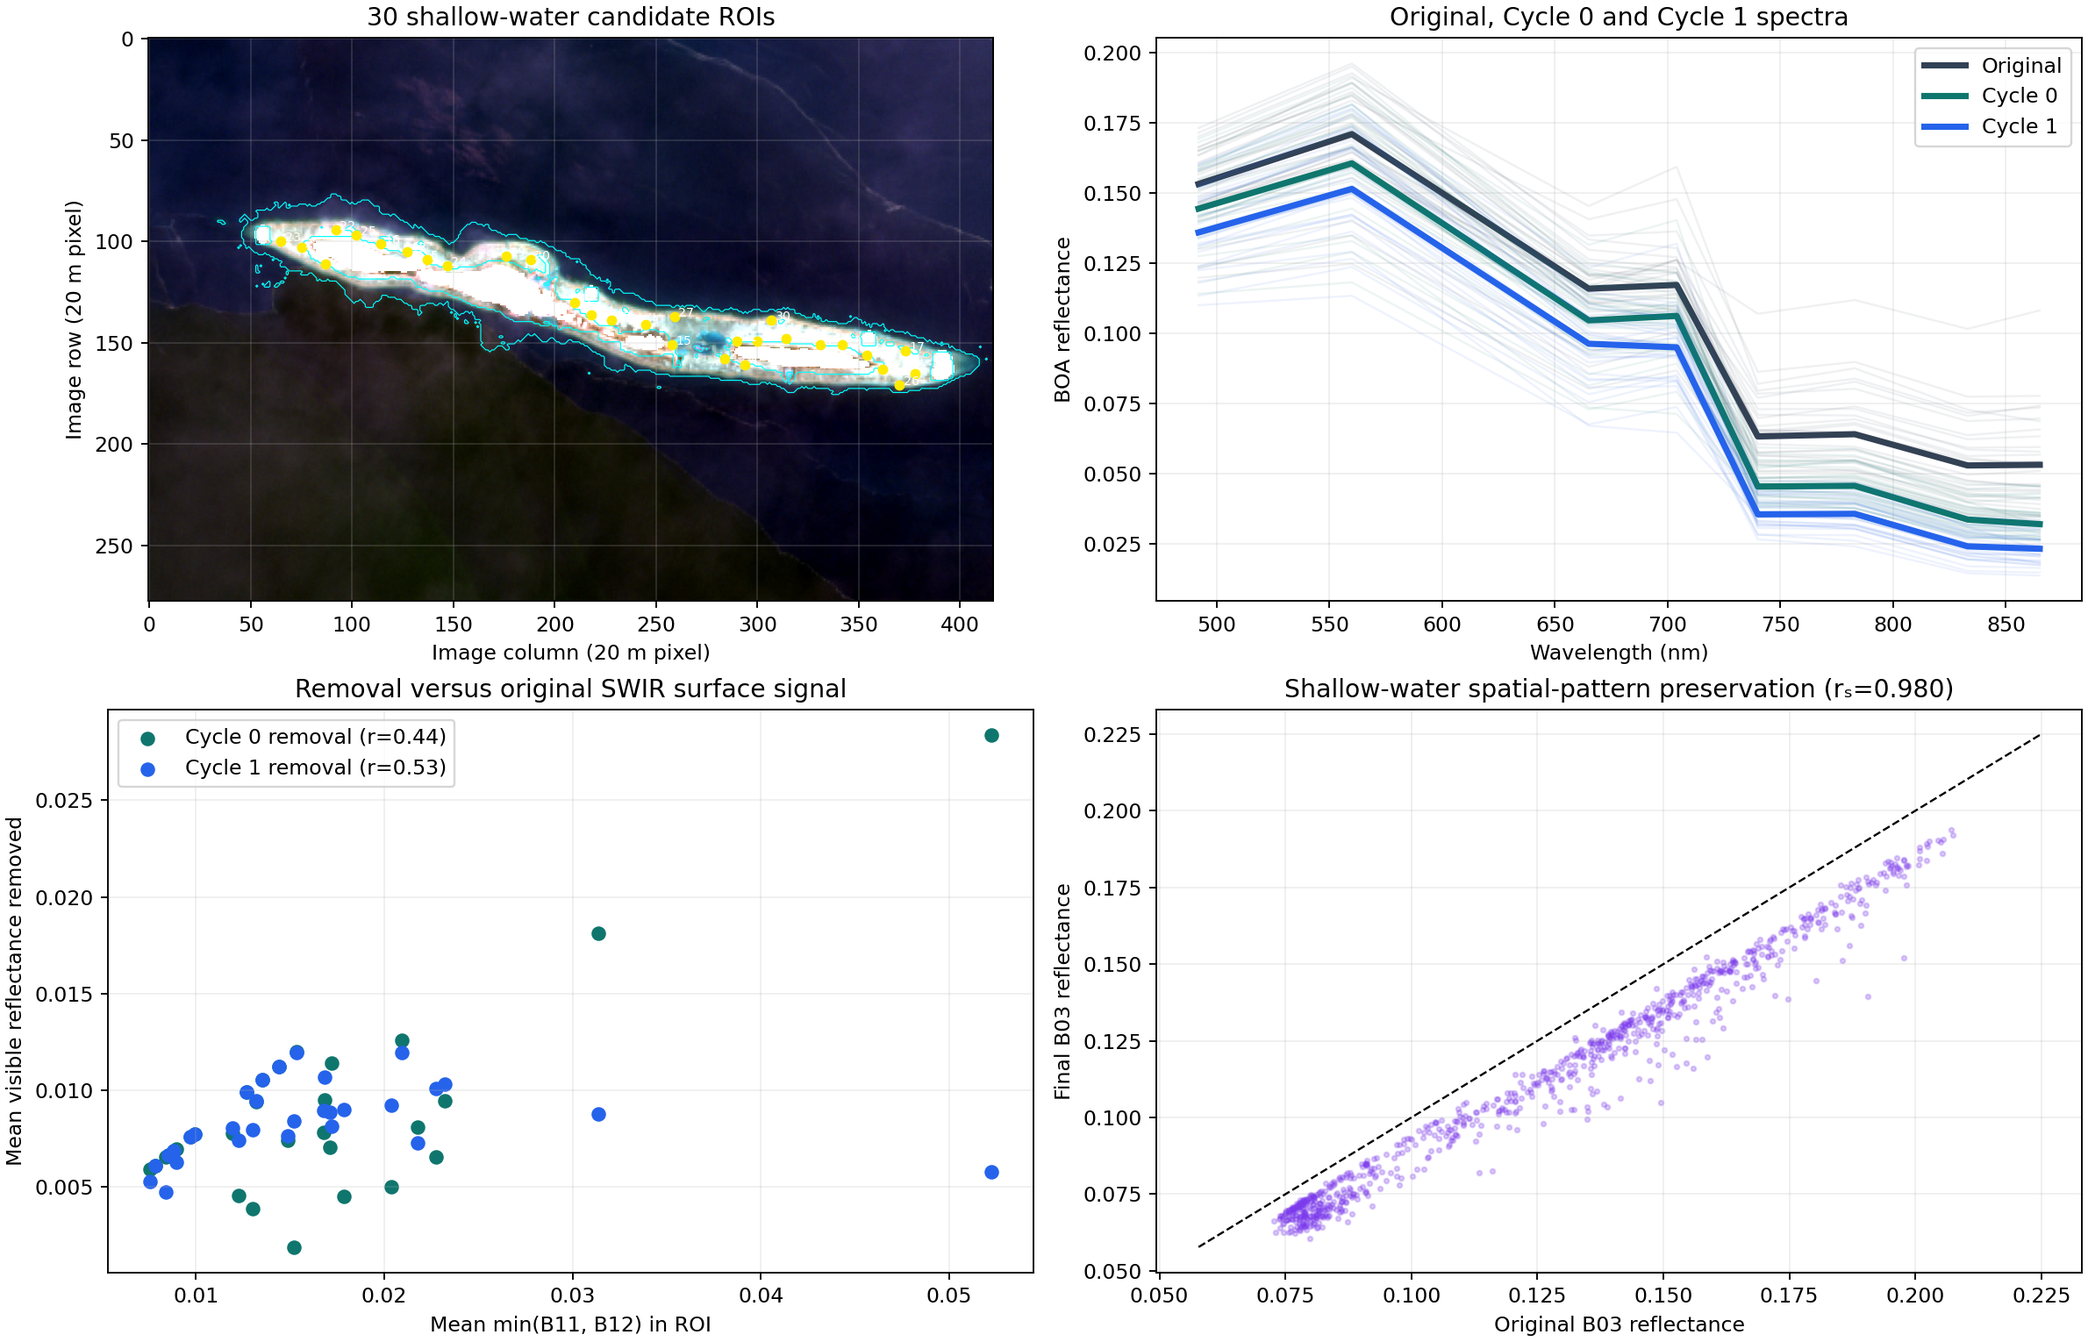
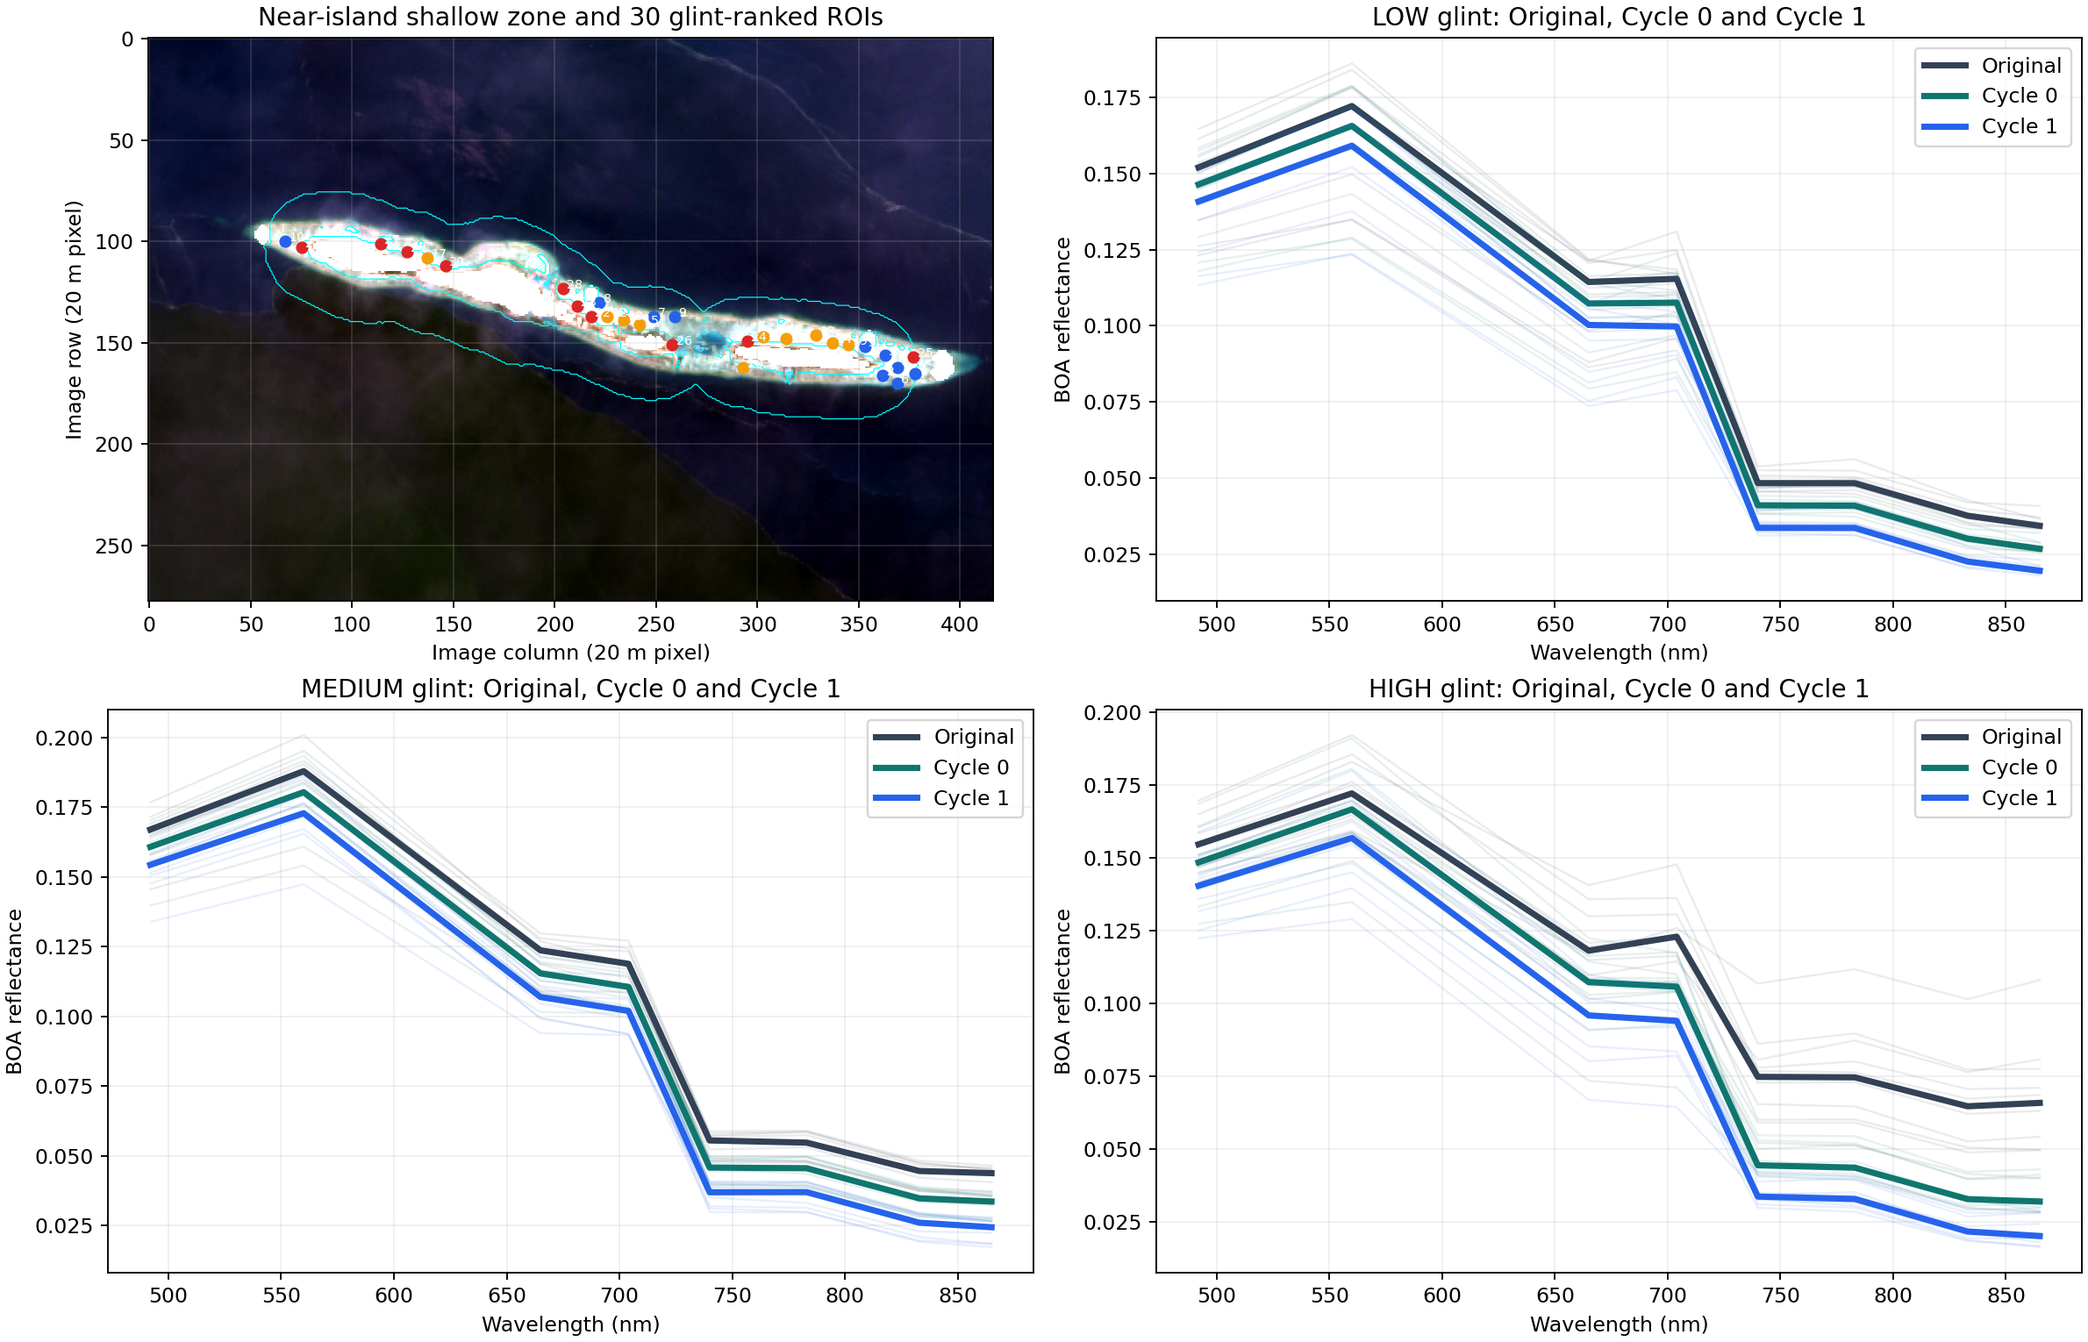
Revise shallow validation by glint strata

diff --git a/documents/assets/260914_tidung_glint/shallow-water-validation/index.html b/documents/assets/260914_tidung_glint/shallow-water-validation/index.html
@@ -1,9 +1,9 @@
 <!doctype html><html><head><meta charset="utf-8"><meta name="viewport" content="width=device-width"><title>Tidung shallow-water validation</title><style>body{font:16px Arial;color:#142033;margin:0;background:#f6f8fb}main{max-width:1200px;margin:auto;padding:18px}section{background:white;border:1px solid #b7c4d4;border-radius:8px;padding:18px;margin:14px 0}h1,h2{margin-top:0}img{width:100%;height:auto}table{border-collapse:collapse;width:100%}th,td{border:1px solid #cbd5e1;padding:8px;text-align:left}th{background:#eef3f8}.note{border-left:5px solid #0f766e;background:#eafafa}.warn{border-left:5px solid #b45309;background:#fff7ed}.metrics{display:grid;grid-template-columns:repeat(auto-fit,minmax(190px,1fr));gap:8px}.metrics div{padding:12px;border:1px solid #cbd5e1}.metrics b{display:block;font-size:1.25rem}</style></head><body><main>
-<section><h1>Shallow-water candidate validation</h1><p><b>Scene:</b> 20240925_S2A · <b>Grid:</b> 20 m · <b>ROIs:</b> 30 windows of 7 × 7 pixels.</p><p class="warn"><b>Depth status:</b> no measured bathymetry was available. These are satellite-identified shallow-water candidates, selected from mapped water 80–500 m from non-water and brighter than the median nearshore water. This checks correction behaviour over likely shallow reef water; it does not prove water depth.</p></section>
-<section><h2>1. Shallow-water ROI selection</h2><p>The cyan boundary is the candidate area. Yellow numbered points are the fixed ROIs used in every later calculation. Land, cloud and non-water SCL classes are excluded, and every 7 × 7 window must contain valid water.</p><img src="20240925_shallow_water_validation.png" alt="Four-panel shallow-water validation"><p><b>How to read the upper-left graph:</b> the ROIs must occur around the near-reef water rather than in the former offshore validation area.</p></section>
-<section><h2>2. Original glint-related signal</h2><p>For every ROI, the mean of the smaller raw B11 or B12 value is recorded as a surface-reflection indicator. It is supporting glint evidence, not water depth and not pure glint.</p><p><b>How to read the lower-left graph:</b> if the amount removed rises with this independent SWIR signal, the correction is responding to a surface-related pattern. Cycle 0: r=0.439, p=0.015243. Cycle 1: r=0.528, p=0.002688.</p></section>
-<section><h2>3. Original, Cycle 0 and Cycle 1 spectra</h2><p>The upper-right graph uses the same 30 ROIs at all three stages. Thin lines are individual ROIs; thick lines are the 30-ROI medians.</p><p><b>How to read it:</b> Original → Cycle 0 is the first removal. Cycle 0 → Cycle 1 is the accepted additional removal. Curves should remain smooth and should not collapse below zero.</p><details open><summary><b>Median numerical values</b></summary><table><tr><th>Band</th><th>Wavelength (nm)</th><th>Original</th><th>Cycle 0</th><th>Cycle 1</th></tr><tr><td>B02</td><td>492</td><td>0.153257</td><td>0.144454</td><td>0.135980</td></tr><tr><td>B03</td><td>560</td><td>0.171045</td><td>0.160636</td><td>0.151510</td></tr><tr><td>B04</td><td>665</td><td>0.115922</td><td>0.104605</td><td>0.096270</td></tr><tr><td>B05</td><td>704</td><td>0.117259</td><td>0.106196</td><td>0.094984</td></tr><tr><td>B06</td><td>740</td><td>0.063206</td><td>0.045330</td><td>0.035408</td></tr><tr><td>B07</td><td>783</td><td>0.063994</td><td>0.045576</td><td>0.035596</td></tr><tr><td>B08</td><td>833</td><td>0.052852</td><td>0.033565</td><td>0.024002</td></tr><tr><td>B8A</td><td>865</td><td>0.053090</td><td>0.031919</td><td>0.023126</td></tr></table></details></section>
-<section><h2>4. Safety and shallow-bottom preservation</h2><div class="metrics"><div><b>0.000%</b>negative ROI spectral values after Cycle 0</div><div><b>0.000%</b>negative ROI spectral values after Cycle 1</div><div><b>0.980</b>B03 spatial rank preserved, original versus final</div></div><p><b>How to read the lower-right graph:</b> points near the dashed 1:1 line and a high rank correlation mean that relative bright/dark shallow-water structure remains present after correction. This is evidence against destruction of the bottom pattern, but it is not field accuracy.</p></section>
-<section class="note"><h2>5. Conclusion</h2><p>The correction was applied and checked over independently selected shallow-water candidate ROIs. The report can state whether the spectra remain non-negative and whether the spatial shallow-bottom pattern is preserved. It cannot yet state that glint was perfectly removed or that depths are accurate, because measured depth or field Rrs was not available.</p></section>
-<section><h2>Exact ROI values</h2><details><summary><b>Show all 30 shallow-water candidate ROIs</b></summary><table><tr><th>ROI</th><th>Distance to non-water (m)</th><th>Raw SWIR indicator</th><th>Cycle 0 visible removal</th><th>Cycle 1 visible removal</th><th>Minimum final band</th></tr><tr><td>SW01</td><td>165</td><td>0.021749</td><td>0.008117</td><td>0.007284</td><td>0.022909</td></tr><tr><td>SW02</td><td>140</td><td>0.031376</td><td>0.018121</td><td>0.008797</td><td>0.018008</td></tr><tr><td>SW03</td><td>117</td><td>0.022739</td><td>0.006560</td><td>0.010107</td><td>0.017260</td></tr><tr><td>SW04</td><td>80</td><td>0.012269</td><td>0.004579</td><td>0.007427</td><td>0.026460</td></tr><tr><td>SW05</td><td>82</td><td>0.016792</td><td>0.007819</td><td>0.008944</td><td>0.023343</td></tr><tr><td>SW06</td><td>220</td><td>0.007837</td><td>0.006118</td><td>0.006118</td><td>0.018126</td></tr><tr><td>SW07</td><td>108</td><td>0.009729</td><td>0.007595</td><td>0.007595</td><td>0.026422</td></tr><tr><td>SW08</td><td>80</td><td>0.020365</td><td>0.005015</td><td>0.009216</td><td>0.029999</td></tr><tr><td>SW09</td><td>126</td><td>0.008527</td><td>0.006657</td><td>0.006657</td><td>0.018505</td></tr><tr><td>SW10</td><td>126</td><td>0.011943</td><td>0.007793</td><td>0.008069</td><td>0.017386</td></tr><tr><td>SW11</td><td>80</td><td>0.015208</td><td>0.001901</td><td>0.008420</td><td>0.031406</td></tr><tr><td>SW12</td><td>100</td><td>0.023192</td><td>0.009484</td><td>0.010321</td><td>0.019003</td></tr><tr><td>SW13</td><td>100</td><td>0.009929</td><td>0.007751</td><td>0.007751</td><td>0.026372</td></tr><tr><td>SW14</td><td>82</td><td>0.012998</td><td>0.003870</td><td>0.007958</td><td>0.026412</td></tr><tr><td>SW15</td><td>100</td><td>0.052235</td><td>0.028370</td><td>0.005794</td><td>0.023577</td></tr><tr><td>SW16</td><td>108</td><td>0.016857</td><td>0.009500</td><td>0.010703</td><td>0.029202</td></tr><tr><td>SW17</td><td>349</td><td>0.014894</td><td>0.007419</td><td>0.007630</td><td>0.021119</td></tr><tr><td>SW18</td><td>100</td><td>0.013523</td><td>0.010557</td><td>0.010557</td><td>0.026925</td></tr><tr><td>SW19</td><td>126</td><td>0.015349</td><td>0.011983</td><td>0.011968</td><td>0.014631</td></tr><tr><td>SW20</td><td>179</td><td>0.014412</td><td>0.011251</td><td>0.011251</td><td>0.013576</td></tr><tr><td>SW21</td><td>82</td><td>0.017876</td><td>0.004516</td><td>0.009006</td><td>0.023956</td></tr><tr><td>SW22</td><td>140</td><td>0.012708</td><td>0.009921</td><td>0.009921</td><td>0.033300</td></tr><tr><td>SW23</td><td>184</td><td>0.008835</td><td>0.006897</td><td>0.006897</td><td>0.020295</td></tr><tr><td>SW24</td><td>89</td><td>0.013190</td><td>0.009409</td><td>0.009466</td><td>0.021027</td></tr><tr><td>SW25</td><td>100</td><td>0.020935</td><td>0.012587</td><td>0.011979</td><td>0.029769</td></tr><tr><td>SW26</td><td>377</td><td>0.008400</td><td>0.006558</td><td>0.004751</td><td>0.020602</td></tr><tr><td>SW27</td><td>272</td><td>0.007584</td><td>0.005920</td><td>0.005299</td><td>0.021227</td></tr><tr><td>SW28</td><td>80</td><td>0.017102</td><td>0.007046</td><td>0.008873</td><td>0.023980</td></tr><tr><td>SW29</td><td>134</td><td>0.017206</td><td>0.011406</td><td>0.008131</td><td>0.016274</td></tr><tr><td>SW30</td><td>283</td><td>0.008943</td><td>0.006982</td><td>0.006299</td><td>0.024172</td></tr></table></details><p><a href="20240925_shallow_candidate_rois.csv">Download ROI values (CSV)</a> · <a href="20240925_shallow_water_metrics.json">Download metrics (JSON)</a></p></section>
+<section><h1>Shallow-water glint validation</h1><p><b>Scene:</b> 20240925_S2A · <b>Grid:</b> 20 m · <b>ROIs:</b> 30 windows of 7 × 7 pixels.</p><p class="warn"><b>Shallow-zone definition:</b> valid Sentinel-2 water located 80–500 m from mapped island land. Around-island proximity is used because measured bathymetry is unavailable; the report does not invent depth values.</p></section>
+<section><h2>1. Define shallow water around the island</h2><p>The cyan boundary shows valid water in the 80–500 m belt around SCL-mapped island land. Clouds and non-water pixels are excluded, and every selected 7 × 7 ROI must be entirely valid water.</p></section>
+<section><h2>2. Select and classify shallow-water ROIs by glint</h2><p>Only after defining the shallow zone, its 7 × 7 ROI candidates are ranked using the mean smaller B11/B12 SWIR surface-reflection indicator. The lower third is LOW, middle third MEDIUM and upper third HIGH. Ten separated ROIs are selected from each group.</p><p><b>Group limits:</b> LOW ≤ 0.008186; MEDIUM &gt; 0.008186 to ≤ 0.009794; HIGH &gt; 0.009794.</p><img src="20240925_shallow_water_validation.png" alt="Shallow zone map and LOW MEDIUM HIGH before-after spectra"><p><b>Map:</b> blue = LOW, orange = MEDIUM, red = HIGH glint. These are all inside the same near-island shallow zone.</p></section>
+<section><h2>3. Spectral change in LOW, MEDIUM and HIGH shallow-water ROIs</h2><p>The other three graphs separately show LOW, MEDIUM and HIGH glint ROIs. Gray is Original, green is Cycle 0 and blue is Cycle 1. Thin lines are the 10 individual ROIs; thick lines are group medians.</p><p><b>How to read it:</b> Original → Cycle 0 is the first removal. Cycle 0 → Cycle 1 is the additional removal. HIGH should generally receive more glint-related removal than LOW, while every spectrum should remain smooth and non-negative.</p><details><summary><b>Show all group-median numerical values</b></summary><table><tr><th>Glint group</th><th>Band</th><th>Wavelength (nm)</th><th>Original</th><th>Cycle 0</th><th>Cycle 1</th></tr><tr><td>LOW</td><td>B02</td><td>492</td><td>0.151940</td><td>0.146345</td><td>0.140749</td></tr><tr><td>LOW</td><td>B03</td><td>560</td><td>0.172054</td><td>0.165552</td><td>0.159050</td></tr><tr><td>LOW</td><td>B04</td><td>665</td><td>0.114370</td><td>0.107326</td><td>0.100281</td></tr><tr><td>LOW</td><td>B05</td><td>704</td><td>0.115415</td><td>0.107597</td><td>0.099780</td></tr><tr><td>LOW</td><td>B06</td><td>740</td><td>0.048440</td><td>0.041163</td><td>0.033776</td></tr><tr><td>LOW</td><td>B07</td><td>783</td><td>0.048415</td><td>0.041027</td><td>0.033735</td></tr><tr><td>LOW</td><td>B08</td><td>833</td><td>0.037754</td><td>0.030237</td><td>0.022721</td></tr><tr><td>LOW</td><td>B8A</td><td>865</td><td>0.034445</td><td>0.026906</td><td>0.019728</td></tr><tr><td>MEDIUM</td><td>B02</td><td>492</td><td>0.167021</td><td>0.160799</td><td>0.154366</td></tr><tr><td>MEDIUM</td><td>B03</td><td>560</td><td>0.187942</td><td>0.180410</td><td>0.172878</td></tr><tr><td>MEDIUM</td><td>B04</td><td>665</td><td>0.123698</td><td>0.115442</td><td>0.106979</td></tr><tr><td>MEDIUM</td><td>B05</td><td>704</td><td>0.118876</td><td>0.110620</td><td>0.102029</td></tr><tr><td>MEDIUM</td><td>B06</td><td>740</td><td>0.055567</td><td>0.045849</td><td>0.036993</td></tr><tr><td>MEDIUM</td><td>B07</td><td>783</td><td>0.054788</td><td>0.045614</td><td>0.037039</td></tr><tr><td>MEDIUM</td><td>B08</td><td>833</td><td>0.044620</td><td>0.034805</td><td>0.026085</td></tr><tr><td>MEDIUM</td><td>B8A</td><td>865</td><td>0.043839</td><td>0.033668</td><td>0.024462</td></tr><tr><td>HIGH</td><td>B02</td><td>492</td><td>0.154735</td><td>0.148539</td><td>0.140503</td></tr><tr><td>HIGH</td><td>B03</td><td>560</td><td>0.172225</td><td>0.166742</td><td>0.156927</td></tr><tr><td>HIGH</td><td>B04</td><td>665</td><td>0.118237</td><td>0.107424</td><td>0.095998</td></tr><tr><td>HIGH</td><td>B05</td><td>704</td><td>0.123029</td><td>0.105874</td><td>0.094127</td></tr><tr><td>HIGH</td><td>B06</td><td>740</td><td>0.074897</td><td>0.044528</td><td>0.033797</td></tr><tr><td>HIGH</td><td>B07</td><td>783</td><td>0.074732</td><td>0.043723</td><td>0.032987</td></tr><tr><td>HIGH</td><td>B08</td><td>833</td><td>0.064797</td><td>0.032926</td><td>0.021809</td></tr><tr><td>HIGH</td><td>B8A</td><td>865</td><td>0.065957</td><td>0.032096</td><td>0.020253</td></tr></table></details></section>
+<section><h2>4. Safety and shallow-bottom preservation</h2><div class="metrics"><div><b>0.000%</b>negative ROI spectral values after Cycle 0</div><div><b>0.000%</b>negative ROI spectral values after Cycle 1</div><div><b>0.977</b>B03 spatial rank preserved, original versus final</div></div><p><b>Interpretation:</b> no selected shallow-water spectrum became negative. The high B03 rank correlation means that locations which were relatively bright or dark before correction generally kept their relative spatial order afterward. This supports preservation of shallow-bottom structure, but it is not a depth-accuracy measurement.</p></section>
+<section class="note"><h2>5. Conclusion</h2><p>This is a direct shallow-water correction check without HydroLight. It shows how LOW, MEDIUM and HIGH surface-reflection conditions change through Cycle 0 and Cycle 1, and whether shallow-water structure survives. It cannot prove exact depth or perfectly zero glint without bathymetry or field Rrs.</p></section>
+<section><h2>Exact ROI values</h2><details><summary><b>Show all 30 shallow-water ROIs</b></summary><table><tr><th>ROI</th><th>Glint group</th><th>Distance to island (m)</th><th>Raw SWIR indicator</th><th>Cycle 0 visible removal</th><th>Cycle 1 visible removal</th><th>Minimum final band</th></tr><tr><td>SW01</td><td>LOW</td><td>487</td><td>0.007837</td><td>0.006118</td><td>0.006118</td><td>0.018126</td></tr><tr><td>SW02</td><td>LOW</td><td>189</td><td>0.007955</td><td>0.006210</td><td>0.006210</td><td>0.021345</td></tr><tr><td>SW03</td><td>LOW</td><td>206</td><td>0.007667</td><td>0.005986</td><td>0.005986</td><td>0.018878</td></tr><tr><td>SW04</td><td>LOW</td><td>301</td><td>0.007878</td><td>0.006150</td><td>0.006150</td><td>0.018649</td></tr><tr><td>SW05</td><td>LOW</td><td>160</td><td>0.009161</td><td>0.007152</td><td>0.007152</td><td>0.023281</td></tr><tr><td>SW06</td><td>LOW</td><td>350</td><td>0.007951</td><td>0.006207</td><td>0.005121</td><td>0.019782</td></tr><tr><td>SW07</td><td>LOW</td><td>204</td><td>0.008139</td><td>0.006354</td><td>0.005646</td><td>0.018851</td></tr><tr><td>SW08</td><td>LOW</td><td>261</td><td>0.008591</td><td>0.006707</td><td>0.006707</td><td>0.020634</td></tr><tr><td>SW09</td><td>LOW</td><td>272</td><td>0.007584</td><td>0.005920</td><td>0.005299</td><td>0.021227</td></tr><tr><td>SW10</td><td>LOW</td><td>303</td><td>0.008178</td><td>0.006384</td><td>0.006384</td><td>0.019673</td></tr><tr><td>SW11</td><td>MEDIUM</td><td>108</td><td>0.009729</td><td>0.007595</td><td>0.007595</td><td>0.026422</td></tr><tr><td>SW12</td><td>MEDIUM</td><td>160</td><td>0.009529</td><td>0.007439</td><td>0.007439</td><td>0.017353</td></tr><tr><td>SW13</td><td>MEDIUM</td><td>180</td><td>0.009549</td><td>0.007455</td><td>0.007455</td><td>0.026725</td></tr><tr><td>SW14</td><td>MEDIUM</td><td>120</td><td>0.009771</td><td>0.007628</td><td>0.007628</td><td>0.027695</td></tr><tr><td>SW15</td><td>MEDIUM</td><td>141</td><td>0.008782</td><td>0.006856</td><td>0.006856</td><td>0.018412</td></tr><tr><td>SW16</td><td>MEDIUM</td><td>120</td><td>0.009618</td><td>0.007509</td><td>0.007509</td><td>0.027300</td></tr><tr><td>SW17</td><td>MEDIUM</td><td>108</td><td>0.011434</td><td>0.008926</td><td>0.008622</td><td>0.022479</td></tr><tr><td>SW18</td><td>MEDIUM</td><td>184</td><td>0.009712</td><td>0.007582</td><td>0.007582</td><td>0.018576</td></tr><tr><td>SW19</td><td>MEDIUM</td><td>126</td><td>0.009688</td><td>0.007563</td><td>0.007563</td><td>0.024891</td></tr><tr><td>SW20</td><td>MEDIUM</td><td>102</td><td>0.008606</td><td>0.006719</td><td>0.006719</td><td>0.024033</td></tr><tr><td>SW21</td><td>HIGH</td><td>140</td><td>0.031376</td><td>0.018121</td><td>0.008797</td><td>0.018008</td></tr><tr><td>SW22</td><td>HIGH</td><td>100</td><td>0.040778</td><td>0.005186</td><td>0.011130</td><td>0.016464</td></tr><tr><td>SW23</td><td>HIGH</td><td>102</td><td>0.036884</td><td>0.008369</td><td>0.011127</td><td>0.019450</td></tr><tr><td>SW24</td><td>HIGH</td><td>80</td><td>0.018273</td><td>-0.001444</td><td>0.009574</td><td>0.028183</td></tr><tr><td>SW25</td><td>HIGH</td><td>467</td><td>0.014824</td><td>0.007267</td><td>0.007422</td><td>0.019521</td></tr><tr><td>SW26</td><td>HIGH</td><td>100</td><td>0.052235</td><td>0.028370</td><td>0.005794</td><td>0.023577</td></tr><tr><td>SW27</td><td>HIGH</td><td>108</td><td>0.016857</td><td>0.009500</td><td>0.010703</td><td>0.029202</td></tr><tr><td>SW28</td><td>HIGH</td><td>152</td><td>0.012241</td><td>0.009556</td><td>0.009360</td><td>0.016847</td></tr><tr><td>SW29</td><td>HIGH</td><td>100</td><td>0.013523</td><td>0.010557</td><td>0.010557</td><td>0.026925</td></tr><tr><td>SW30</td><td>HIGH</td><td>82</td><td>0.015114</td><td>0.008971</td><td>0.009411</td><td>0.020986</td></tr></table></details><p><a href="20240925_shallow_candidate_rois.csv">Download ROI values (CSV)</a> · <a href="20240925_shallow_water_metrics.json">Download metrics (JSON)</a></p></section>
 </main></body></html>
